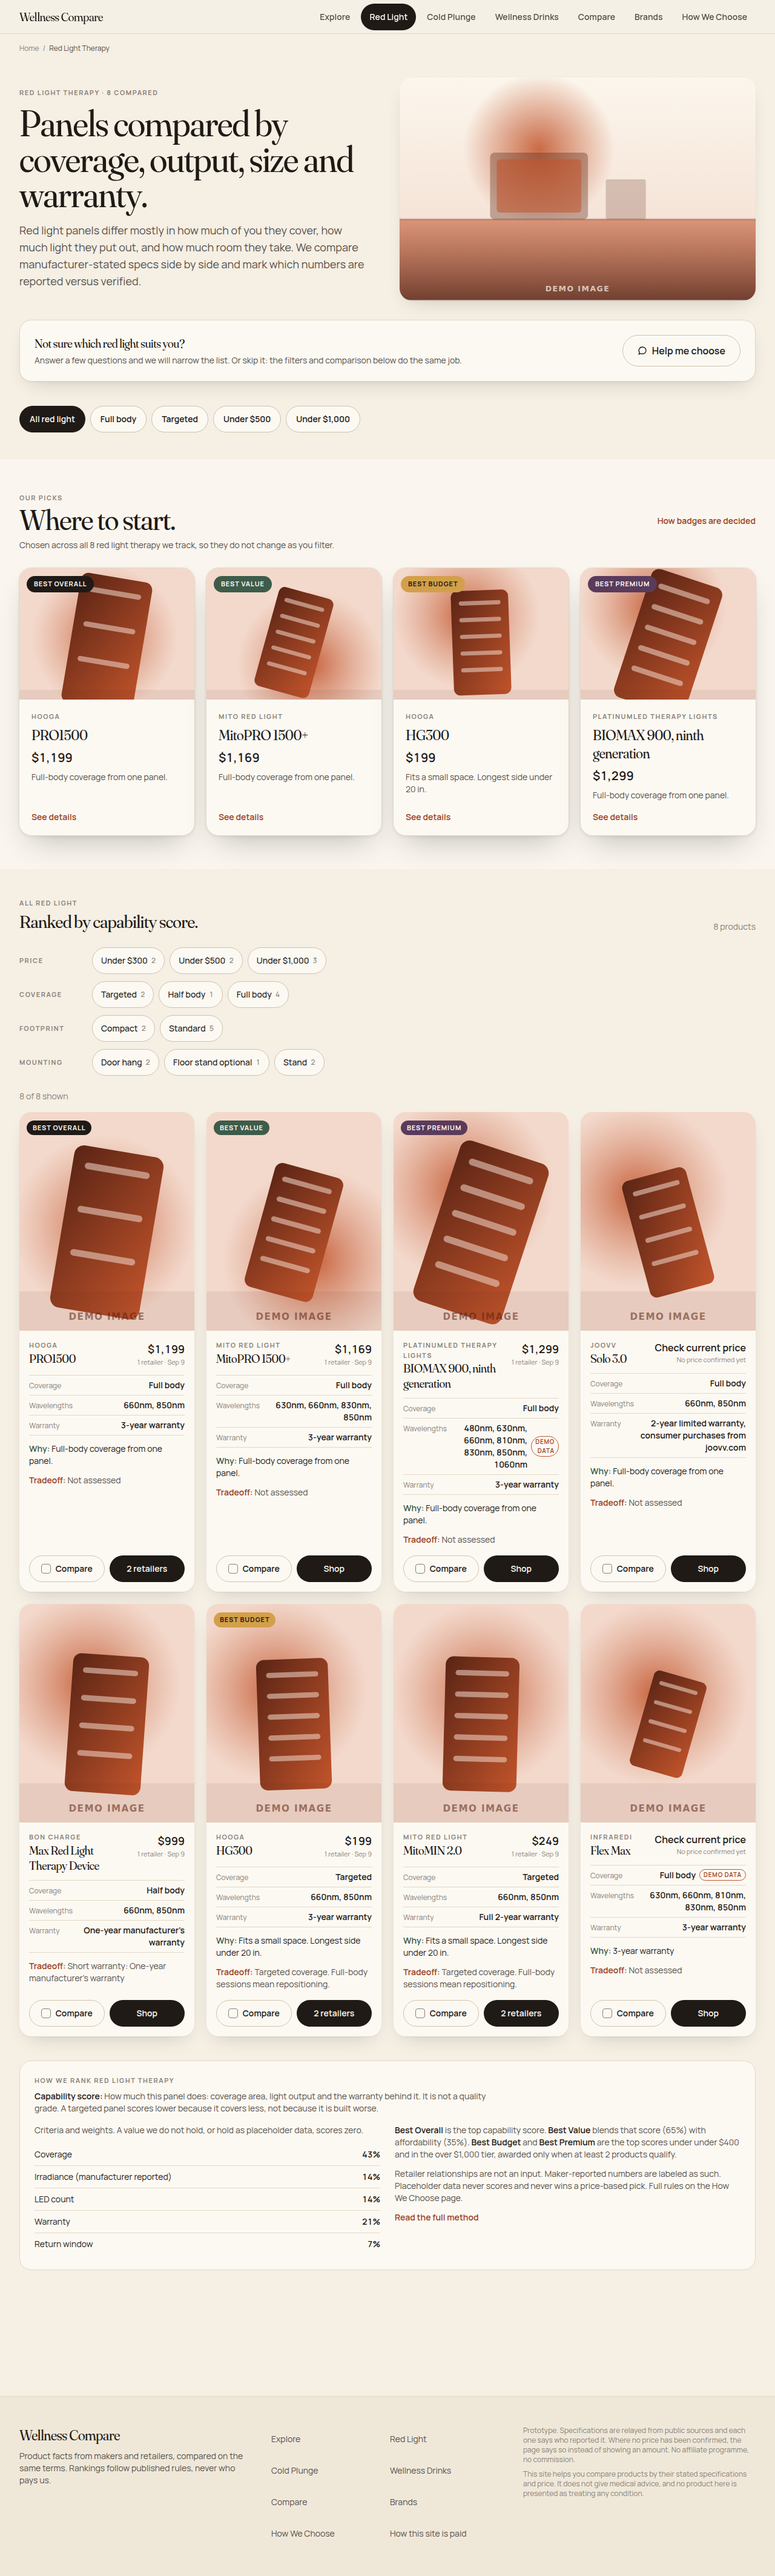
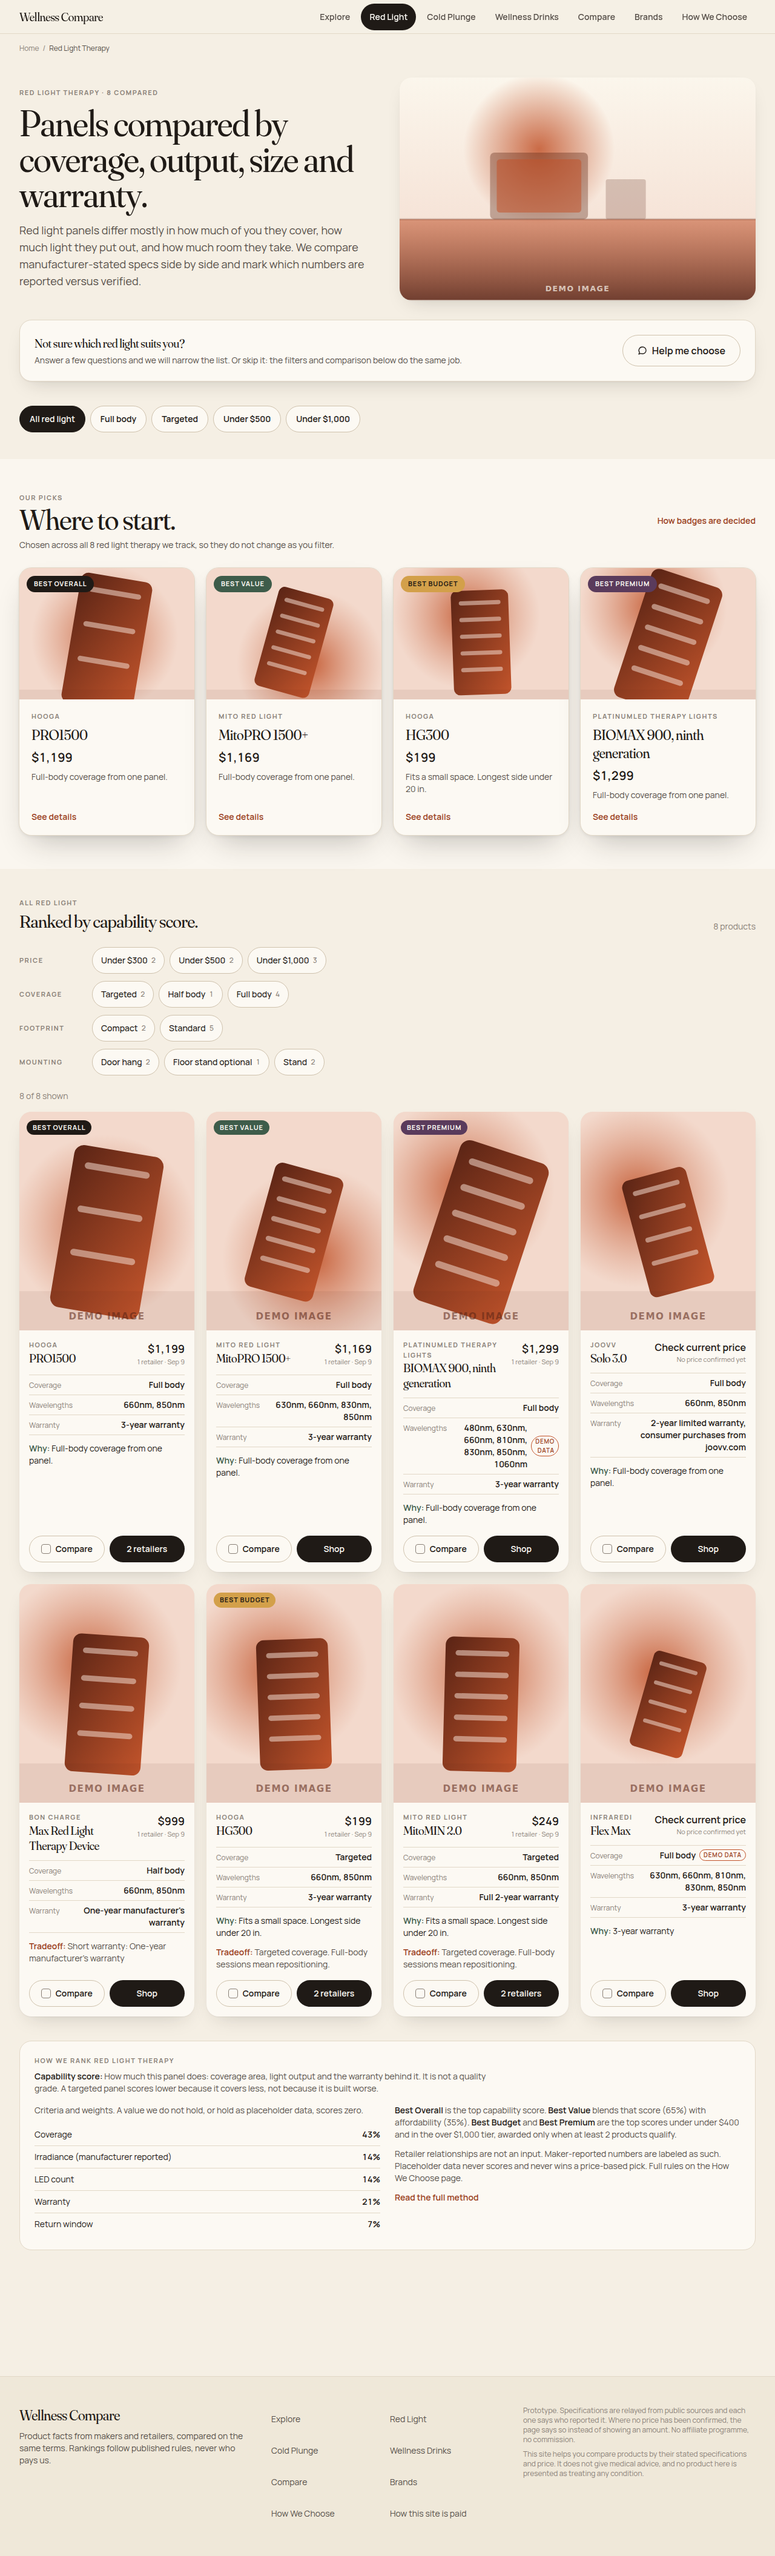
A gallery that opens from a clone, and cards that stop saying nothing
Drinks added to the captures, so all three categories are represented:
category-wellness-drinks desktop and mobile.

docs/preview/index.html is a single file with no dependencies and no build
step. It reads the committed images with relative paths, so it opens from a
clone with no server and no network. Desktop and mobile toggle, each shot
captioned with what to look at, and the deliberate gaps stated at the top
rather than left for someone to notice. Verified by loading it over file:// in
Chromium: 10 figures, no broken images in either view, no page errors, and the
viewport toggle swaps every image.

The build id is stamped into the page by preview:shots rather than fetched at
load time, because a page opened from file:// cannot fetch a sibling file, and
that is the one situation this gallery exists for.

The authorized copy change is in: a card omits the tradeoff line when no rule
fired. Actual tradeoffs are untouched and no ranking logic changed. The
explicit statement still exists where there is room for it, on the product page
and in the compare table's own row.

Verified on the built site rather than assumed: zero occurrences of "Not
assessed" on the home page and on a category page, and cards that do have a
tradeoff still print it. Only the desktop images changed, because the line was
already hidden below the small breakpoint, so this was a desktop-only artefact
all along.

README corrected on hosting. A Mac-local preview needs no host and no account:
[…]

diff --git a/docs/preview/index.html b/docs/preview/index.html
@@ -1,0 +1,98 @@
+<!doctype html>
+<html lang="en">
+<head>
+<meta charset="utf-8">
+<meta name="viewport" content="width=device-width, initial-scale=1">
+<meta name="robots" content="noindex">
+<title>Wellness Compare: preview</title>
+<style>
+  :root { color-scheme: light dark; --bg:#f7f3ec; --fg:#1a1714; --soft:#5c554c; --edge:#e2d9cc; --card:#fffdf9; }
+  @media (prefers-color-scheme: dark) { :root { --bg:#17150f; --fg:#f2ede4; --soft:#a79f92; --edge:#332d24; --card:#1f1c15; } }
+  * { box-sizing: border-box; }
+  body { margin:0; padding:0 16px 64px; background:var(--bg); color:var(--fg);
+         font:15px/1.55 ui-sans-serif,-apple-system,"Segoe UI",Roboto,Helvetica,Arial,sans-serif; }
+  .wrap { max-width: 1100px; margin: 0 auto; }
+  header { padding: 40px 0 8px; }
+  h1 { font-size: clamp(28px,5vw,40px); margin: 0 0 6px; letter-spacing:-0.02em; }
+  h2 { font-size: 20px; margin: 40px 0 4px; }
+  p { color: var(--soft); margin: 0 0 12px; max-width: 62ch; }
+  .meta { font-size: 13px; color: var(--soft); }
+  code { background: var(--card); border:1px solid var(--edge); border-radius:5px; padding:1px 5px; font-size:13px; }
+  .tabs { display:flex; gap:8px; margin: 20px 0 4px; flex-wrap: wrap; }
+  .tabs button { font: inherit; cursor: pointer; padding: 7px 14px; border-radius: 999px;
+                 border:1px solid var(--edge); background:var(--card); color:var(--fg); }
+  .tabs button[aria-pressed="true"] { background: var(--fg); color: var(--bg); border-color: var(--fg); }
+  figure { margin: 0 0 36px; }
+  figcaption { font-size: 14px; color: var(--soft); margin: 0 0 8px; }
+  figcaption b { color: var(--fg); font-weight: 600; }
+  a.shot { display:block; border:1px solid var(--edge); border-radius:12px; overflow:hidden; background:var(--card); }
+  img { display:block; width:100%; height:auto; }
+  .phone a.shot { max-width: 390px; }
+  .note { background:var(--card); border:1px solid var(--edge); border-radius:12px; padding:14px 16px; margin: 8px 0 24px; }
+  .note ul { margin: 8px 0 0; padding-left: 18px; }
+  .note li { color: var(--soft); margin-bottom: 6px; }
+  footer { border-top:1px solid var(--edge); margin-top:48px; padding-top:16px; font-size:13px; color:var(--soft); }
+</style>
+</head>
+<body>
+<div class="wrap">
+<header>
+  <h1>Wellness Compare</h1>
+  <p>Screenshots of the built site. Every image is a real page from a production build served locally, not a mockup.</p>
+  <p class="meta">Build <code id="build">ZPnZtM6msWu8ecvWg0JUi</code>, captured <span id="captured">2026-09-10</span>. Run it yourself with <code>npm run preview</code>.</p>
+</header>
+
+<div class="tabs" role="group" aria-label="Viewport">
+  <button type="button" data-view="desktop" aria-pressed="true">Desktop</button>
+  <button type="button" data-view="mobile" aria-pressed="false">Mobile</button>
+</div>
+
+<div class="note">
+  <b>Deliberately unfinished, and visible in these shots:</b>
+  <ul>
+    <li>Every product image is a procedural placeholder, marked <b>DEMO IMAGE</b>. Nothing is presented as a photograph.</li>
+    <li>Specs sourced from a search summary say so; prototype values are tagged <b>Demo data</b>.</li>
+    <li>One product has no price at all, on purpose. Its page explains why.</li>
+  </ul>
+</div>
+
+<main id="gallery"></main>
+
+<footer>
+  <p>Generated by <code>scripts/preview-shots.mts</code>. Images live in <code>shots/</code> and are committed to the repository, so this page works offline from a clone.</p>
+</footer>
+</div>
+
+<script>
+const SHOTS = [
+  ["home", "Home", "Hero, the three categories, category winners, filter shortcuts and the ranking statement."],
+  ["category-red-light", "Red Light Therapy", "Eight products ranked, badges, filters, and the rules panel."],
+  ["category-cold-plunge", "Cold Plunges", "Six products. Best Budget is withheld here, and the page says why."],
+  ["category-wellness-drinks", "Wellness Drinks", "Six products scored on sugar, added sugar, calories and subscription."],
+  ["product-renu", "Product: a well-sourced one", "Score breakdown criterion by criterion, specs by group, retailers, and every source."],
+  ["product-plunge-no-price", "Product: no price at all", "The unusual state. No amount can be shown to belong to this product, so none is shown, and it still ranks and compares."],
+  ["compare", "Compare", "Three cold plunges. The product header stays put while the table scrolls."],
+  ["compare-scrolled", "Compare, scrolled", "Rows a value cannot be ranked on say so under the label."],
+  ["how-we-choose", "How We Choose", "The published rules behind every badge."],
+  ["disclosure", "How this site is paid", "No affiliate programme, no commission."],
+];
+const gallery = document.getElementById("gallery");
+function render(view) {
+  gallery.className = view === "mobile" ? "phone" : "";
+  gallery.innerHTML = SHOTS.map(([name, title, blurb]) => `
+    <figure>
+      <h2>${title}</h2>
+      <figcaption>${blurb}</figcaption>
+      <a class="shot" href="shots/${name}-${view}.png"><img loading="lazy" alt="${title}, ${view}" src="shots/${name}-${view}.png"></a>
+    </figure>`).join("");
+}
+for (const b of document.querySelectorAll(".tabs button")) {
+  b.addEventListener("click", () => {
+    for (const other of document.querySelectorAll(".tabs button")) other.setAttribute("aria-pressed", String(other === b));
+    render(b.dataset.view);
+  });
+}
+render("desktop");
+</script>
+</body>
+</html>

diff --git a/src/components/product/ProductCard.tsx b/src/components/product/ProductCard.tsx
@@ -52,10 +52,17 @@ export function ProductCard({ item, cat, priority = false }: { item: Recommended
             {strength}
           </p>
         ) : null}
-        <p className="hidden line-clamp-1 text-sm text-fg-soft sm:block">
-          <span className="font-semibold text-accent-strong">Tradeoff: </span>
-          {tradeoff ?? "Not assessed"}
-        </p>
+        {/* Only when there is one. A card said "Tradeoff: Not assessed"
+            whenever no rule fired, which is every category winner, so all four
+            cards on the home page carried the same empty line. The statement
+            still exists where it can be read properly: the product page says
+            what "not assessed" means, and the compare table keeps its row. */}
+        {tradeoff ? (
+          <p className="hidden line-clamp-1 text-sm text-fg-soft sm:block">
+            <span className="font-semibold text-accent-strong">Tradeoff: </span>
+            {tradeoff}
+          </p>
+        ) : null}
         <div className="mt-auto grid grid-cols-2 gap-2 pt-1">
           <CompareToggle item={{ id: view.id, slug: view.slug, name: view.name, categoryId: view.categoryId }} />
           <a

diff --git a/docs/preview/README.md b/docs/preview/README.md
@@ -1,7 +1,11 @@
 # Preview
 
-The built site, captured and reproducible. Screenshots are in `shots/`, taken
-2026-09-10 from a production build served locally.
+The built site, captured and reproducible. **Open `index.html` in a browser**
+for the gallery: it reads the committed images with relative paths, so it works
+from a clone with no server and no network.
+
+Screenshots are in `shots/`, taken 2026-09-10 from a production build served
+locally.
 
 ## Running it yourself
 
@@ -33,16 +37,22 @@ npm run preview:shots    # in another
 `preview:shots` refuses to run unless the server is serving the build in
 `.next`, so a set of images can never quietly describe older code.
 
-## Hosting: what is not solved here
+## Hosting
 
-This is a local preview. **Nothing is deployed and no host is configured.** A
-link Matt can open from his own machine needs a host, which needs a decision
-and an account, and neither has been made. The repository is ready for one: the
-only deployment-shaped inputs are `NEXT_PUBLIC_SITE_URL` and, when indexing is
-wanted, `NEXT_PUBLIC_ALLOW_INDEXING`.
+**A local preview needs no host and no account.** Clone the repository, run
+`npm ci && npm run preview`, open `http://localhost:3000`. That is the whole
+path on a Mac, and it gives the real site rather than pictures of it.
 
-Until then the screenshots below are the durable artefact: they are committed
-to the repository and survive this container.
+A *public* URL is a different thing and is not solved here. **No external
+deployment configuration exists in this repository and none has been verified
+from here**, which is a statement about what is on disk and what this container
+could check, not a claim that nothing is deployed anywhere. Publishing would
+need a host, and the only deployment-shaped inputs the code has are
+`NEXT_PUBLIC_SITE_URL` and, when indexing is wanted,
+`NEXT_PUBLIC_ALLOW_INDEXING`.
+
+The screenshots and `index.html` are the artefact that travels: committed to
+the repository, readable offline, and independent of this container.
 
 ## What to look at
 
@@ -51,6 +61,7 @@ to the repository and survive this container.
 | `home-desktop`, `home-mobile` | The whole home page: hero, three category tiles, category winners, filter shortcuts, the ranking statement, brands |
 | `category-red-light-*` | Eight products ranked, badges, filter chips, the how-we-rank panel |
 | `category-cold-plunge-*` | Six products, and the withheld Best Budget stated on the page with its reason |
+| `category-wellness-drinks-*` | Six products scored on sugar, added sugar, calories and subscription, with Best Budget withheld and explained |
 | `product-renu-*` | A well-sourced product: score breakdown, specs by group, retailers, sources |
 | `product-plunge-no-price-*` | **The most unusual state, worth a careful look.** A product with no price at all: the block says "Current price unavailable", the retailer section explains it in a shopper's words, one withheld listing is acknowledged without its amount, and the product still ranks and compares |
 | `compare-*` | Three cold plunges side by side, sticky product header |
@@ -65,20 +76,25 @@ to the repository and survive this container.
 - **Every product image is a procedural placeholder**, marked "DEMO IMAGE" on
   the image itself. Nothing here is presented as a photograph. See
   `docs/drafts/IMAGE-RIGHTS-MATRIX.md`.
-- **"Tradeoff: Not assessed"** appears on 9 of 20 product cards, including
-  every card on the home page. That is not a bug: the home page features
-  category winners, and a category winner is exactly the product that trips no
-  tradeoff rule. The copy is honest and it reads as unfinished. Whether to hide
-  the line when there is nothing to say is a copy decision, not a defect, and
-  it has not been made.
+- **Some cards carry a tradeoff line and some do not.** A card shows one when a
+  rule fired and omits the line when none did, which is often the case for a
+  category winner. The statement itself still exists where there is room to say
+  it properly: the product page explains that no rule firing is not the same as
+  finding no tradeoff, and the compare table keeps its row.
 - **Some prices are relayed rather than read**, and the page says which.
 - **Some specs are prototype values**, labelled "Demo data" wherever they
   appear. `docs/PROTOTYPE-VALUE-AUDIT.md` traces all 12 through every surface.
 
-## Fixed while capturing these
+## Changed while capturing these
 
 **Compare qualifiers read "Not ranked. at least one source…"** with a lowercase
 letter after the full stop, on every unranked row. The component turns the
 source string's colon into a full stop and was not capitalising what followed.
 Fixed in `src/components/compare/CompareView.tsx`; the tooltip keeps the
 original single-sentence wording.
+
+**Cards no longer print "Tradeoff: Not assessed."** Every category winner trips
+no tradeoff rule, so all four cards on the home page carried the same empty
+line. The line is omitted when there is nothing to say. Actual tradeoffs are
+untouched, no ranking logic changed, and the product page and compare table
+still state explicitly what "not assessed" means.

diff --git a/docs/PUBLICATION-READINESS.md b/docs/PUBLICATION-READINESS.md
@@ -100,10 +100,11 @@ follow. It guesses nothing. Tested in
    for and how it ranks are documented here and in `/how-we-choose`, and a
    draft built only from those is in `docs/drafts/ABOUT-DRAFT.md`.
 
-5. **Hosting.** No deployment configuration was found in this repository: no
-   host config file, no CI, no deployment manifest. That is a statement about
-   what is on disk here and not about whether anything is deployed anywhere,
-   which this repository cannot see. The deployment-shaped inputs in the code
+5. **Hosting.** No deployment configuration was found in this repository and no
+   external deployment has been verified from here: no host config file, no CI,
+   no deployment manifest. That is a statement about what is on disk and what
+   this container could check, not a claim that nothing is deployed anywhere.
+   A local preview needs none of it: `npm ci && npm run preview` on a Mac. The deployment-shaped inputs in the code
    are `NEXT_PUBLIC_SITE_URL` and `NEXT_PUBLIC_ALLOW_INDEXING`; the database
    URL and the assistant's credentials are already environment-driven.
 
